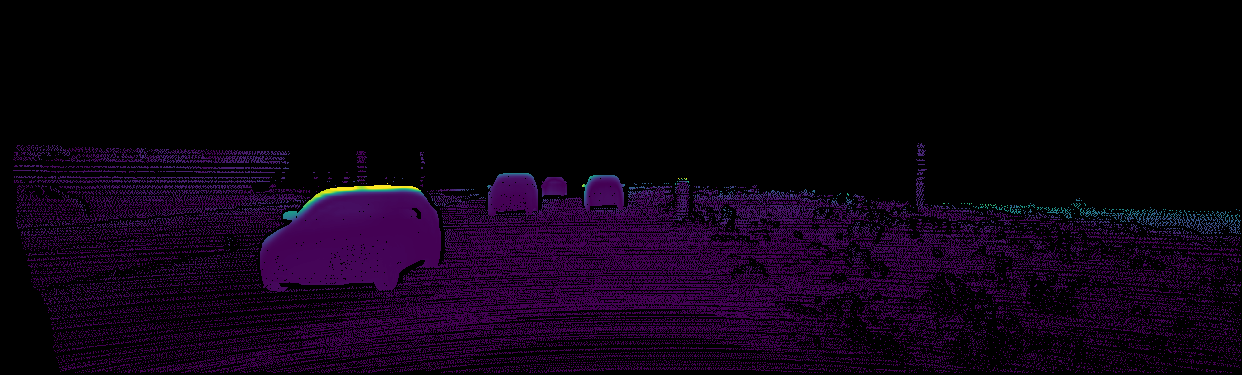
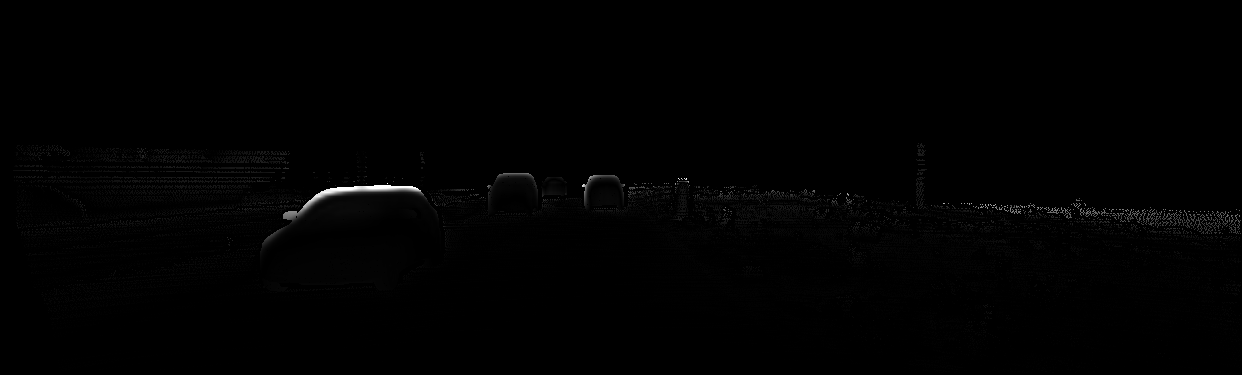
histograms task3 added

Changed region(s): [[0.0, 0.3813, 1.0, 0.9973], [0.7343, 0.3813, 0.7649, 0.4107], [0.2754, 0.4107, 0.306, 0.44]]

diff --git a/code/assign3_task3.py b/code/assign3_task3.py
@@ -1,3 +1,4 @@
+import io
 import subprocess
 import os
 from PIL import Image
@@ -80,7 +81,7 @@ def _load_pfm(file):
     dims = file.readline().decode('ascii').rstrip()
     while dims.startswith('#'):
         dims = file.readline().decode('ascii').rstrip()
-        
+
     width, height = map(int, dims.split())
     scale = float(file.readline().rstrip())
 
@@ -239,11 +240,30 @@ def calc_rms_diff(pred, gt):
 
     # Normalize difference and apply colormap
     diff_normalized = np.clip(abs_diff / DIFF_IMG_MAX_ERROR, 0, 1)
-    colormap = plt.cm.viridis(diff_normalized)
-    diff_image = (colormap[..., :3] * 255).astype(np.uint8)
-    diff_image[~valid_mask] = 0  
+    diff_grayscale = (diff_normalized * 255).astype(np.uint8)
+    diff_image = np.stack([diff_grayscale, diff_grayscale, diff_grayscale], axis=-1)
+    diff_image[~valid_mask] = 0
 
-    return rmse, diff_image
+
+
+    # Create histogram of errors
+    errors = abs_diff[valid_mask]
+    bins = np.arange(0, 10.1, 0.1)  # 10 cm bins from 0 to 10 m
+    plt.figure(figsize=(10, 6))
+    plt.hist(errors, bins=bins, edgecolor='black', alpha=0.7)
+    plt.xlabel('Absolute Depth Error [m]')
+    plt.ylabel('Frequency')
+    plt.title('Error Distribution')
+    plt.grid(True, alpha=0.3)
+    plt.xlim(0, 10)
+    buf = io.BytesIO()
+    plt.savefig(buf, format='png')
+    buf.seek(0)
+    hist_image = np.array(Image.open(buf))
+    plt.close()
+
+
+    return rmse, diff_image, hist_image
 
 
 
@@ -293,8 +313,8 @@ if __name__ == "__main__":
     for i, (pred_unimatch, pred_unidepth, gt) in enumerate(zip(unimatch_results, unidepth_results, ground_truth)):
         print(f"\nProcessing result {i+1}/{len(unimatch_results)}...")
 
-        rmse_unimatch, diff_image_unimatch = calc_rms_diff(pred_unimatch, gt)
-        rmse_unidepth, diff_image_unidepth = calc_rms_diff(pred_unidepth, gt)
+        rmse_unimatch, diff_image_unimatch, hist_image_unimatch = calc_rms_diff(pred_unimatch, gt)
+        rmse_unidepth, diff_image_unidepth, hist_image_unidepth = calc_rms_diff(pred_unidepth, gt)
 
         # Save difference images
         diff_output_path_unimatch = os.path.join('fileoutput/task3/diff_images', f'{unimatch_names[i].replace("_disp", "")}_unimatch_diff.png')
@@ -302,6 +322,13 @@ if __name__ == "__main__":
         os.makedirs('fileoutput/task3/diff_images', exist_ok=True)
         Image.fromarray(diff_image_unimatch).save(diff_output_path_unimatch)
         Image.fromarray(diff_image_unidepth).save(diff_output_path_unidepth)
+
+        # Save histogram images
+        hist_output_path_unimatch = os.path.join('fileoutput/task3/histogram_images', f'{unimatch_names[i].replace("_disp", "")}_unimatch_hist.png')
+        hist_output_path_unidepth = os.path.join('fileoutput/task3/histogram_images', f'{unidepth_names[i].replace("_raw", "")}_unidepth_hist.png')
+        os.makedirs('fileoutput/task3/histogram_images', exist_ok=True)
+        Image.fromarray(hist_image_unimatch).save(hist_output_path_unimatch)
+        Image.fromarray(hist_image_unidepth).save(hist_output_path_unidepth)
 
         print(f"Unimatch RMSE: {rmse_unimatch:.4f} meters")
         print(f"UniDepth RMSE: {rmse_unidepth:.4f} meters")
